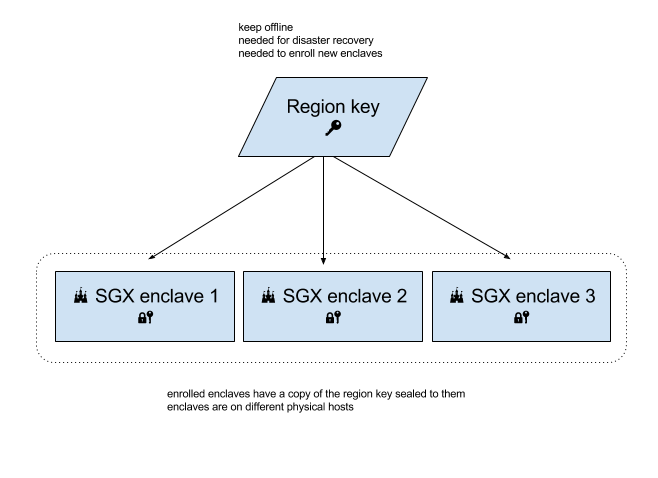
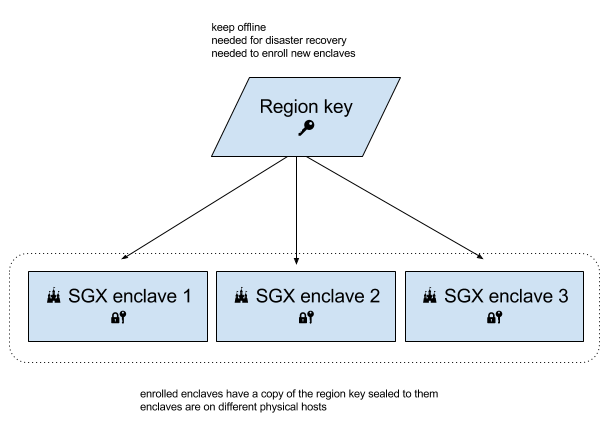
center images?

diff --git a/_posts/2011-01-17-using-sgx-to-hash-passwords.md b/_posts/2011-01-17-using-sgx-to-hash-passwords.md
@@ -37,19 +37,19 @@ a 'region'.  A region is nothing more than an AES key available to all such encl
 'Enrolling' an enclave into a region involves telling it the region key and having it
 seal the region key to itself.
 
-![diagram showing simple region concept][regionpng]
+->![diagram showing simple region concept][regionpng]<-
 
 At the enclave level, we need only two operations: setting a password and checking
 a guess.  These look like:
 
-![diagram showing password setup flow][setuppng]
+->![diagram showing password setup flow][setuppng]<-
 
 Here, we generate a random salt (using laundered hardware entropy from the `RDRAND`
 instruction) and pass the password into PBKDF2.  The result and salt are encrypted using
 the region key, producing a ciphertext which can be stored alongside the user record
 in a database or password file.
 
-![diagram showing password guess flow][authpng]
+->![diagram showing password guess flow][authpng]<-
 
 Here we decrypt the ciphertext to obtain the salt and correct hash.  We hash the
 purported password and compare with the correct hash.
